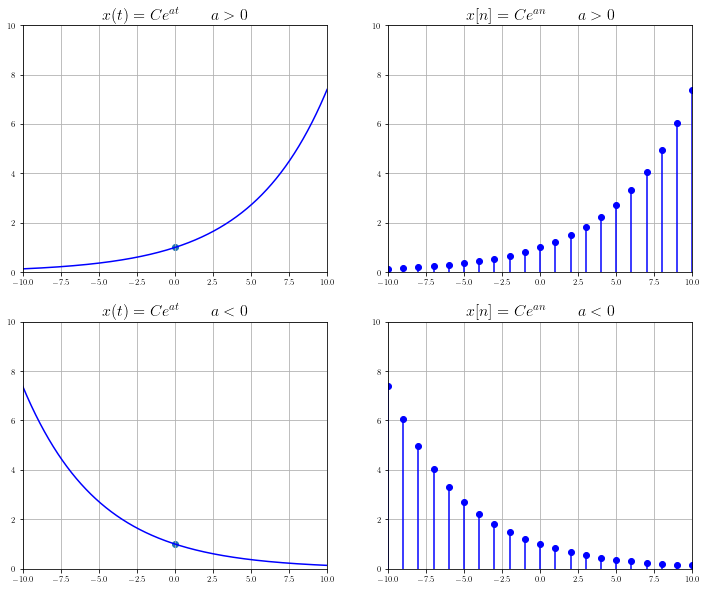
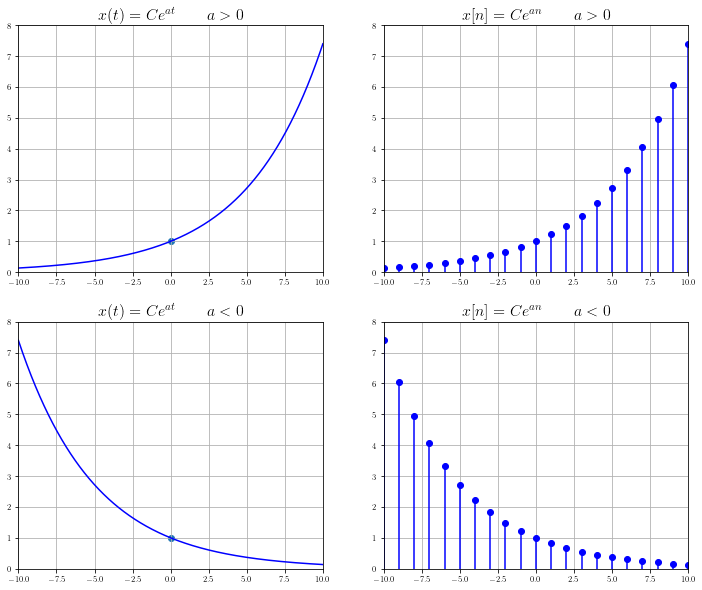
Update documentation

diff --git a/courses/dsp/intro.html b/courses/dsp/intro.html
@@ -668,7 +668,7 @@ title="Print to PDF"
 <span class="n">mpl_axes_plot</span><span class="p">(</span><span class="n">ax</span><span class="p">[</span><span class="mi">0</span><span class="p">][</span><span class="mi">0</span><span class="p">],</span> <span class="n">sp</span><span class="o">.</span><span class="n">exp</span><span class="p">((</span><span class="n">t</span><span class="p">)</span><span class="o">/</span><span class="mi">5</span><span class="p">),</span> <span class="p">(</span><span class="n">t</span><span class="p">,</span> <span class="o">-</span><span class="mi">40</span><span class="p">,</span> <span class="mi">40</span><span class="p">),</span> <span class="n">color</span><span class="o">=</span><span class="s1">&#39;b&#39;</span><span class="p">)</span>
 <span class="n">ax</span><span class="p">[</span><span class="mi">0</span><span class="p">][</span><span class="mi">0</span><span class="p">]</span><span class="o">.</span><span class="n">scatter</span><span class="p">(</span><span class="mi">0</span><span class="p">,</span> <span class="mi">1</span><span class="p">)</span>
 <span class="n">ax</span><span class="p">[</span><span class="mi">0</span><span class="p">][</span><span class="mi">0</span><span class="p">]</span><span class="o">.</span><span class="n">set_xlim</span><span class="p">(</span><span class="o">-</span><span class="mi">10</span><span class="p">,</span> <span class="mi">10</span><span class="p">,</span> <span class="mi">1</span><span class="p">)</span>
-<span class="n">ax</span><span class="p">[</span><span class="mi">0</span><span class="p">][</span><span class="mi">0</span><span class="p">]</span><span class="o">.</span><span class="n">set_ylim</span><span class="p">(</span><span class="o">-</span><span class="mi">00</span><span class="p">,</span> <span class="mi">10</span><span class="p">,</span> <span class="mi">1</span><span class="p">)</span>
+<span class="n">ax</span><span class="p">[</span><span class="mi">0</span><span class="p">][</span><span class="mi">0</span><span class="p">]</span><span class="o">.</span><span class="n">set_ylim</span><span class="p">(</span><span class="mi">0</span><span class="p">,</span> <span class="mi">8</span><span class="p">,</span> <span class="mi">1</span><span class="p">)</span>
 <span class="n">ax</span><span class="p">[</span><span class="mi">0</span><span class="p">][</span><span class="mi">0</span><span class="p">]</span><span class="o">.</span><span class="n">set_title</span><span class="p">(</span><span class="sa">r</span><span class="s1">&#39;$x(t) = Ce^</span><span class="si">{at}</span><span class="s1">  \qquad  a&gt;0$&#39;</span><span class="p">,</span> <span class="n">fontsize</span><span class="o">=</span><span class="mi">16</span><span class="p">)</span>
 <span class="n">ax</span><span class="p">[</span><span class="mi">0</span><span class="p">][</span><span class="mi">0</span><span class="p">]</span><span class="o">.</span><span class="n">tick_params</span><span class="p">(</span><span class="n">axis</span><span class="o">=</span><span class="s1">&#39;x&#39;</span><span class="p">,</span> <span class="n">labelsize</span><span class="o">=</span><span class="mi">8</span><span class="p">)</span>
 <span class="n">ax</span><span class="p">[</span><span class="mi">0</span><span class="p">][</span><span class="mi">0</span><span class="p">]</span><span class="o">.</span><span class="n">tick_params</span><span class="p">(</span><span class="n">axis</span><span class="o">=</span><span class="s1">&#39;y&#39;</span><span class="p">,</span> <span class="n">labelsize</span><span class="o">=</span><span class="mi">8</span><span class="p">)</span>
@@ -680,7 +680,7 @@ title="Print to PDF"
 
 <span class="n">mpl_axes_stem</span><span class="p">(</span><span class="n">ax</span><span class="p">[</span><span class="mi">0</span><span class="p">][</span><span class="mi">1</span><span class="p">],</span> <span class="n">sp</span><span class="o">.</span><span class="n">exp</span><span class="p">((</span><span class="n">t</span><span class="p">)</span><span class="o">/</span><span class="mi">5</span><span class="p">),</span> <span class="p">(</span><span class="n">t</span><span class="p">,</span> <span class="o">-</span><span class="mi">40</span><span class="p">,</span> <span class="mi">40</span><span class="p">,</span> <span class="mi">1</span><span class="p">),</span> <span class="n">linefmt</span><span class="o">=</span><span class="s1">&#39;b&#39;</span><span class="p">,</span> <span class="n">markerfmt</span><span class="o">=</span><span class="s1">&#39;bo&#39;</span><span class="p">)</span>
 <span class="n">ax</span><span class="p">[</span><span class="mi">0</span><span class="p">][</span><span class="mi">1</span><span class="p">]</span><span class="o">.</span><span class="n">set_xlim</span><span class="p">(</span><span class="o">-</span><span class="mi">10</span><span class="p">,</span> <span class="mi">10</span><span class="p">,</span> <span class="mi">1</span><span class="p">)</span>
-<span class="n">ax</span><span class="p">[</span><span class="mi">0</span><span class="p">][</span><span class="mi">1</span><span class="p">]</span><span class="o">.</span><span class="n">set_ylim</span><span class="p">(</span><span class="o">-</span><span class="mi">00</span><span class="p">,</span> <span class="mi">10</span><span class="p">,</span> <span class="mi">1</span><span class="p">)</span>
+<span class="n">ax</span><span class="p">[</span><span class="mi">0</span><span class="p">][</span><span class="mi">1</span><span class="p">]</span><span class="o">.</span><span class="n">set_ylim</span><span class="p">(</span><span class="mi">0</span><span class="p">,</span> <span class="mi">8</span><span class="p">,</span> <span class="mi">1</span><span class="p">)</span>
 <span class="n">ax</span><span class="p">[</span><span class="mi">0</span><span class="p">][</span><span class="mi">1</span><span class="p">]</span><span class="o">.</span><span class="n">set_title</span><span class="p">(</span><span class="sa">r</span><span class="s1">&#39;$x[n] = Ce^</span><span class="si">{an}</span><span class="s1">  \qquad  a&gt;0$&#39;</span><span class="p">,</span> <span class="n">fontsize</span><span class="o">=</span><span class="mi">16</span><span class="p">)</span>
 <span class="n">ax</span><span class="p">[</span><span class="mi">0</span><span class="p">][</span><span class="mi">1</span><span class="p">]</span><span class="o">.</span><span class="n">tick_params</span><span class="p">(</span><span class="n">axis</span><span class="o">=</span><span class="s1">&#39;x&#39;</span><span class="p">,</span> <span class="n">labelsize</span><span class="o">=</span><span class="mi">8</span><span class="p">)</span>
 <span class="n">ax</span><span class="p">[</span><span class="mi">0</span><span class="p">][</span><span class="mi">1</span><span class="p">]</span><span class="o">.</span><span class="n">tick_params</span><span class="p">(</span><span class="n">axis</span><span class="o">=</span><span class="s1">&#39;y&#39;</span><span class="p">,</span> <span class="n">labelsize</span><span class="o">=</span><span class="mi">8</span><span class="p">)</span>
@@ -693,7 +693,7 @@ title="Print to PDF"
 <span class="n">mpl_axes_plot</span><span class="p">(</span><span class="n">ax</span><span class="p">[</span><span class="mi">1</span><span class="p">][</span><span class="mi">0</span><span class="p">],</span> <span class="n">sp</span><span class="o">.</span><span class="n">exp</span><span class="p">((</span><span class="o">-</span><span class="n">t</span><span class="p">)</span><span class="o">/</span><span class="mi">5</span><span class="p">),</span> <span class="p">(</span><span class="n">t</span><span class="p">,</span> <span class="o">-</span><span class="mi">40</span><span class="p">,</span> <span class="mi">40</span><span class="p">),</span> <span class="n">color</span><span class="o">=</span><span class="s1">&#39;b&#39;</span><span class="p">)</span>
 <span class="n">ax</span><span class="p">[</span><span class="mi">1</span><span class="p">][</span><span class="mi">0</span><span class="p">]</span><span class="o">.</span><span class="n">scatter</span><span class="p">(</span><span class="mi">0</span><span class="p">,</span> <span class="mi">1</span><span class="p">)</span>
 <span class="n">ax</span><span class="p">[</span><span class="mi">1</span><span class="p">][</span><span class="mi">0</span><span class="p">]</span><span class="o">.</span><span class="n">set_xlim</span><span class="p">(</span><span class="o">-</span><span class="mi">10</span><span class="p">,</span> <span class="mi">10</span><span class="p">,</span> <span class="mi">1</span><span class="p">)</span>
-<span class="n">ax</span><span class="p">[</span><span class="mi">1</span><span class="p">][</span><span class="mi">0</span><span class="p">]</span><span class="o">.</span><span class="n">set_ylim</span><span class="p">(</span><span class="o">-</span><span class="mi">00</span><span class="p">,</span> <span class="mi">10</span><span class="p">,</span> <span class="mi">1</span><span class="p">)</span>
+<span class="n">ax</span><span class="p">[</span><span class="mi">1</span><span class="p">][</span><span class="mi">0</span><span class="p">]</span><span class="o">.</span><span class="n">set_ylim</span><span class="p">(</span><span class="mi">0</span><span class="p">,</span> <span class="mi">8</span><span class="p">,</span> <span class="mi">1</span><span class="p">)</span>
 <span class="n">ax</span><span class="p">[</span><span class="mi">1</span><span class="p">][</span><span class="mi">0</span><span class="p">]</span><span class="o">.</span><span class="n">set_title</span><span class="p">(</span><span class="sa">r</span><span class="s1">&#39;$x(t) = Ce^</span><span class="si">{at}</span><span class="s1">  \qquad  a&lt;0$&#39;</span><span class="p">,</span> <span class="n">fontsize</span><span class="o">=</span><span class="mi">16</span><span class="p">)</span>
 <span class="n">ax</span><span class="p">[</span><span class="mi">1</span><span class="p">][</span><span class="mi">0</span><span class="p">]</span><span class="o">.</span><span class="n">tick_params</span><span class="p">(</span><span class="n">axis</span><span class="o">=</span><span class="s1">&#39;x&#39;</span><span class="p">,</span> <span class="n">labelsize</span><span class="o">=</span><span class="mi">8</span><span class="p">)</span>
 <span class="n">ax</span><span class="p">[</span><span class="mi">1</span><span class="p">][</span><span class="mi">0</span><span class="p">]</span><span class="o">.</span><span class="n">tick_params</span><span class="p">(</span><span class="n">axis</span><span class="o">=</span><span class="s1">&#39;y&#39;</span><span class="p">,</span> <span class="n">labelsize</span><span class="o">=</span><span class="mi">8</span><span class="p">)</span>
@@ -705,7 +705,7 @@ title="Print to PDF"
 
 <span class="n">mpl_axes_stem</span><span class="p">(</span><span class="n">ax</span><span class="p">[</span><span class="mi">1</span><span class="p">][</span><span class="mi">1</span><span class="p">],</span> <span class="n">sp</span><span class="o">.</span><span class="n">exp</span><span class="p">((</span><span class="o">-</span><span class="n">t</span><span class="p">)</span><span class="o">/</span><span class="mi">5</span><span class="p">),</span> <span class="p">(</span><span class="n">t</span><span class="p">,</span> <span class="o">-</span><span class="mi">40</span><span class="p">,</span> <span class="mi">40</span><span class="p">,</span> <span class="mi">1</span><span class="p">),</span> <span class="n">linefmt</span><span class="o">=</span><span class="s1">&#39;b&#39;</span><span class="p">,</span> <span class="n">markerfmt</span><span class="o">=</span><span class="s1">&#39;bo&#39;</span><span class="p">)</span>
 <span class="n">ax</span><span class="p">[</span><span class="mi">1</span><span class="p">][</span><span class="mi">1</span><span class="p">]</span><span class="o">.</span><span class="n">set_xlim</span><span class="p">(</span><span class="o">-</span><span class="mi">10</span><span class="p">,</span> <span class="mi">10</span><span class="p">,</span> <span class="mi">1</span><span class="p">)</span>
-<span class="n">ax</span><span class="p">[</span><span class="mi">1</span><span class="p">][</span><span class="mi">1</span><span class="p">]</span><span class="o">.</span><span class="n">set_ylim</span><span class="p">(</span><span class="o">-</span><span class="mi">00</span><span class="p">,</span> <span class="mi">10</span><span class="p">,</span> <span class="mi">1</span><span class="p">)</span>
+<span class="n">ax</span><span class="p">[</span><span class="mi">1</span><span class="p">][</span><span class="mi">1</span><span class="p">]</span><span class="o">.</span><span class="n">set_ylim</span><span class="p">(</span><span class="mi">0</span><span class="p">,</span> <span class="mi">8</span><span class="p">,</span> <span class="mi">1</span><span class="p">)</span>
 <span class="n">ax</span><span class="p">[</span><span class="mi">1</span><span class="p">][</span><span class="mi">1</span><span class="p">]</span><span class="o">.</span><span class="n">set_title</span><span class="p">(</span><span class="sa">r</span><span class="s1">&#39;$x[n] = Ce^</span><span class="si">{an}</span><span class="s1">  \qquad  a&lt;0$&#39;</span><span class="p">,</span> <span class="n">fontsize</span><span class="o">=</span><span class="mi">16</span><span class="p">)</span>
 <span class="n">ax</span><span class="p">[</span><span class="mi">1</span><span class="p">][</span><span class="mi">1</span><span class="p">]</span><span class="o">.</span><span class="n">tick_params</span><span class="p">(</span><span class="n">axis</span><span class="o">=</span><span class="s1">&#39;x&#39;</span><span class="p">,</span> <span class="n">labelsize</span><span class="o">=</span><span class="mi">8</span><span class="p">)</span>
 <span class="n">ax</span><span class="p">[</span><span class="mi">1</span><span class="p">][</span><span class="mi">1</span><span class="p">]</span><span class="o">.</span><span class="n">tick_params</span><span class="p">(</span><span class="n">axis</span><span class="o">=</span><span class="s1">&#39;y&#39;</span><span class="p">,</span> <span class="n">labelsize</span><span class="o">=</span><span class="mi">8</span><span class="p">)</span>

diff --git a/searchindex.js b/searchindex.js
@@ -1,1 +1,1 @@
-Search.setIndex({docnames:["about","courses/dsp/intro","courses/gpu/intro","courses/mip/intro","courses/vis/intro","home","publications","updates"],envversion:{"sphinx.domains.c":2,"sphinx.domains.changeset":1,"sphinx.domains.citation":1,"sphinx.domains.cpp":3,"sphinx.domains.index":1,"sphinx.domains.javascript":2,"sphinx.domains.math":2,"sphinx.domains.python":3,"sphinx.domains.rst":2,"sphinx.domains.std":2,"sphinx.ext.intersphinx":1,"sphinxcontrib.bibtex":9,sphinx:56},filenames:["about.md","courses/dsp/intro.ipynb","courses/gpu/intro.md","courses/mip/intro.md","courses/vis/intro.md","home.md","publications.md","updates.md"],objects:{},objnames:{},objtypes:{},terms:{"0":1,"00":1,"02":1,"05":1,"1":1,"10":1,"10000":1,"12":1,"15":1,"16":1,"2":1,"2012":0,"2018":0,"2019":0,"24":[],"4":1,"40":1,"400":0,"5":1,"60":1,"7":1,"8":1,"\uc9c4\uc120\ubbf8":0,"function":1,"import":1,"return":1,"super":1,"true":1,acceler:0,adversari:0,affili:0,all:0,alpha:1,an:[0,1],anatom:0,applic:0,apt:1,ar:[0,1],arang:1,around:0,atom:1,ax:1,axi:1,b:[0,1],base:0,basefmt:1,basic:1,been:0,biomed:0,bo:1,both:0,capit:0,ce:1,center:0,citat:0,cm:1,co:1,color:1,commun:0,compress:0,comput:0,concentr:0,convei:1,ct:0,cuda:0,current:0,cyclic:0,d:0,data:0,deep:0,def:1,degre:0,demonstr:0,digit:1,dimension:1,domain:0,dvipng:1,electr:0,electron:0,engin:0,enterpris:0,exp:1,exponenti:[],expr:1,extra:1,fig:1,figsiz:1,first:0,focus:0,font:1,fontsiz:1,from:0,func:1,gan:0,gener:0,googl:0,got:0,gpu:0,graph:0,grid:1,guid:0,h:1,ha:0,he:0,hi:0,high:0,imag:0,includ:0,independ:1,inform:1,inlin:1,instal:1,interest:0,invers:0,jeong:0,kaist:0,ki:0,korea:0,korean:0,kwarg:1,lab:0,labels:1,lambdifi:1,largest:0,latex:1,learn:0,lectur:0,linefmt:1,linestyl:1,linspac:1,loss:0,map:0,margin:1,markerfmt:1,mathemat:1,matplotlib:1,member:0,microscopi:0,minh:0,modal:0,model:0,more:1,most:0,move:0,mpl_axes_plot:1,mpl_axes_stem:1,mpl_axes_step:1,mri:0,n:1,network:0,neural:0,notabl:0,np:1,number:1,numpi:1,omega_0n:1,omega_0t:1,one:[0,1],perform:0,ph:0,phi:1,pi:1,pioneer:0,pip:1,plot:1,plt:1,problem:0,process:0,professor:0,pyplot:1,qquad:1,quan:0,quantiz:1,r:1,radiograph:0,rai:0,rcparam:1,real:[],receiv:0,recent:0,recommend:1,reconstruct:0,render:0,repres:1,research:0,ro:1,round:1,rt:1,s:0,scatter:1,scholar:0,scienc:0,sens:0,set_titl:1,set_xlim:1,set_xtick:1,set_ylim:1,set_ytick:1,show:1,sin:1,sinc:0,south:0,sp:1,space:1,special:0,start:1,stem:1,step:1,stop:1,student:0,subplot:1,sudo:1,symbol:1,sympi:1,system:5,t:1,texliv:1,text:1,theori:0,thi:0,tick_param:1,tight_layout:1,tran:0,translat:0,type:1,u:1,undersampl:0,understand:0,unist:0,univers:0,us:0,use_line_collect:1,usetex:1,valu:[],variabl:1,variation:0,variou:0,vietnam:0,vingroup:0,vinunivers:0,visual:0,volum:0,wa:0,well:0,which:0,who:0,won:0,work:0,x:[0,1],xrang:1,xreplac:1,y:1},titles:["Personal","Signals and Systems","TBD","TBD","TBD","Welcome","&lt;no title&gt;","Updates"],titleterms:{complex:1,continu:1,digit:5,discret:1,even:1,exponenti:1,odd:1,person:0,prerequisit:1,process:5,python:1,real:1,signal:[1,5],simul:1,system:1,tbd:[2,3,4],time:1,updat:7,util:1,valu:1,versu:1,visual:1,welcom:5}})
+Search.setIndex({docnames:["about","courses/dsp/intro","courses/gpu/intro","courses/mip/intro","courses/vis/intro","home","publications","updates"],envversion:{"sphinx.domains.c":2,"sphinx.domains.changeset":1,"sphinx.domains.citation":1,"sphinx.domains.cpp":3,"sphinx.domains.index":1,"sphinx.domains.javascript":2,"sphinx.domains.math":2,"sphinx.domains.python":3,"sphinx.domains.rst":2,"sphinx.domains.std":2,"sphinx.ext.intersphinx":1,"sphinxcontrib.bibtex":9,sphinx:56},filenames:["about.md","courses/dsp/intro.ipynb","courses/gpu/intro.md","courses/mip/intro.md","courses/vis/intro.md","home.md","publications.md","updates.md"],objects:{},objnames:{},objtypes:{},terms:{"0":1,"00":[],"02":1,"05":1,"1":1,"10":1,"10000":1,"12":1,"15":1,"16":1,"2":1,"2012":0,"2018":0,"2019":0,"24":[],"4":1,"40":1,"400":0,"5":1,"60":1,"7":1,"8":1,"\uc9c4\uc120\ubbf8":0,"function":1,"import":1,"return":1,"super":1,"true":1,acceler:0,adversari:0,affili:0,all:0,alpha:1,an:[0,1],anatom:0,applic:0,apt:1,ar:[0,1],arang:1,around:0,atom:1,ax:1,axi:1,b:[0,1],base:0,basefmt:1,basic:1,been:0,biomed:0,bo:1,both:0,capit:0,ce:1,center:0,citat:0,cm:1,co:1,color:1,commun:0,compress:0,comput:0,concentr:0,convei:1,ct:0,cuda:0,current:0,cyclic:0,d:0,data:0,deep:0,def:1,degre:0,demonstr:0,digit:1,dimension:1,domain:0,dvipng:1,electr:0,electron:0,engin:0,enterpris:0,exp:1,exponenti:[],expr:1,extra:1,fig:1,figsiz:1,first:0,focus:0,font:1,fontsiz:1,from:0,func:1,gan:0,gener:0,googl:0,got:0,gpu:0,graph:0,grid:1,guid:0,h:1,ha:0,he:0,hi:0,high:0,imag:0,includ:0,independ:1,inform:1,inlin:1,instal:1,interest:0,invers:0,jeong:0,kaist:0,ki:0,korea:0,korean:0,kwarg:1,lab:0,labels:1,lambdifi:1,largest:0,latex:1,learn:0,lectur:0,linefmt:1,linestyl:1,linspac:1,loss:0,map:0,margin:1,markerfmt:1,mathemat:1,matplotlib:1,member:0,microscopi:0,minh:0,modal:0,model:0,more:1,most:0,move:0,mpl_axes_plot:1,mpl_axes_stem:1,mpl_axes_step:1,mri:0,n:1,network:0,neural:0,notabl:0,np:1,number:1,numpi:1,omega_0n:1,omega_0t:1,one:[0,1],perform:0,ph:0,phi:1,pi:1,pioneer:0,pip:1,plot:1,plt:1,problem:0,process:0,professor:0,pyplot:1,qquad:1,quan:0,quantiz:1,r:1,radiograph:0,rai:0,rcparam:1,real:[],receiv:0,recent:0,recommend:1,reconstruct:0,render:0,repres:1,research:0,ro:1,round:1,rt:1,s:0,scatter:1,scholar:0,scienc:0,sens:0,set_titl:1,set_xlim:1,set_xtick:1,set_ylim:1,set_ytick:1,show:1,sin:1,sinc:0,south:0,sp:1,space:1,special:0,start:1,stem:1,step:1,stop:1,student:0,subplot:1,sudo:1,symbol:1,sympi:1,system:5,t:1,texliv:1,text:1,theori:0,thi:0,tick_param:1,tight_layout:1,tran:0,translat:0,type:1,u:1,undersampl:0,understand:0,unist:0,univers:0,us:0,use_line_collect:1,usetex:1,valu:[],variabl:1,variation:0,variou:0,vietnam:0,vingroup:0,vinunivers:0,visual:0,volum:0,wa:0,well:0,which:0,who:0,won:0,work:0,x:[0,1],xrang:1,xreplac:1,y:1},titles:["Personal","Signals and Systems","TBD","TBD","TBD","Welcome","&lt;no title&gt;","Updates"],titleterms:{complex:1,continu:1,digit:5,discret:1,even:1,exponenti:1,odd:1,person:0,prerequisit:1,process:5,python:1,real:1,signal:[1,5],simul:1,system:1,tbd:[2,3,4],time:1,updat:7,util:1,valu:1,versu:1,visual:1,welcom:5}})
